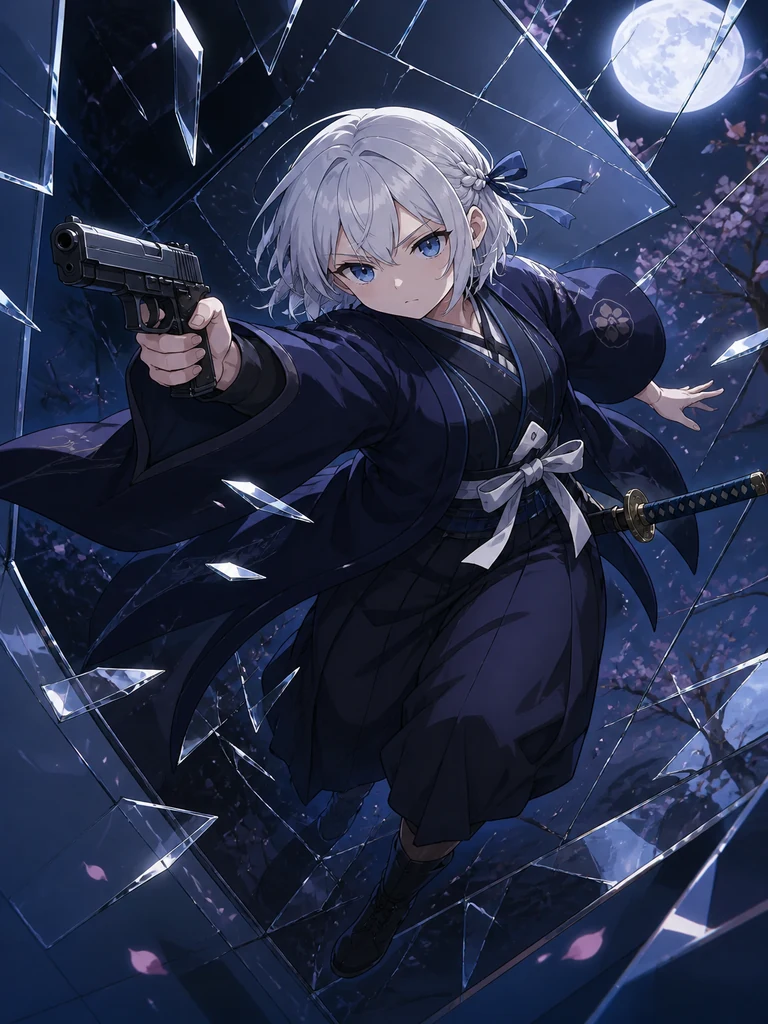
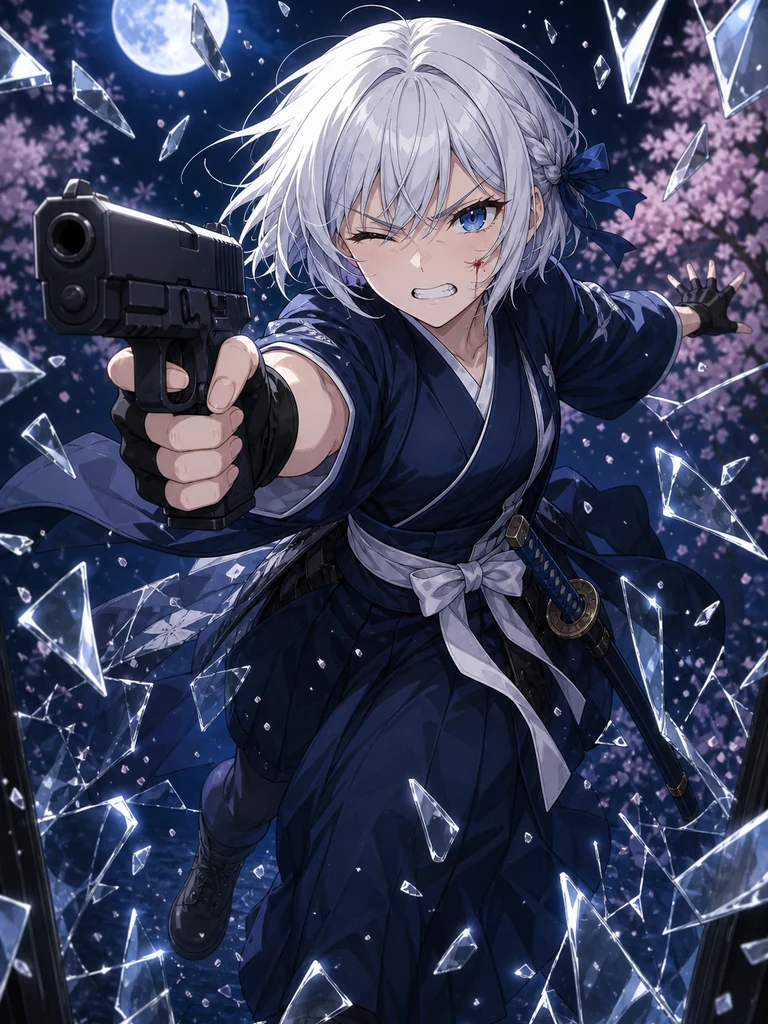
fix: give each job cover a distinct face instead of the same blank glare
Twenty-one cards still shared one closed-mouth combat stare. They are redrawn so each lore beat has its own emotion. Seven already readable faces stay. Aya still does not raise the pistol to her cheek.

diff --git a/docs/PHASE2_FACE_CHECK.md b/docs/PHASE2_FACE_CHECK.md
@@ -8,33 +8,35 @@
 
 绫的枪姿额外禁：`aya_petal` / `school_gun` 那种「手枪竖举到脸边或枪口朝天」。十张都过目视。
 
-| id | 角色 | 发色 | 兵器 | 失败痕迹 | 枪姿 | 自检 |
-|---|---|---|---|---|---|---|
-| job_swarm | 小夜 霓虹风衣 | 紫黑 | 步枪 | 爬无人机堆、蜂巢核裂 | — | 是 |
-| job_railLord | 小夜 霓虹风衣 | 紫黑 | 步枪 | 磁轨弯向镜核 | — | 是 |
-| job_hive | 小夜 绯血礼服 | 紫黑 | 步枪 | 菌从甲缝长出、人躺倒 | — | 是 |
-| job_garden | 小夜 炼金围裙 | 紫黑 | 步枪当锄 | 尸花里长出镜核 | — | 是 |
-| job_starIdol | 小夜 演出服 | 紫黑 | 步枪当麦 | 从塌台坠落 | — | 是 |
-| job_miracle | 小夜 灵能裙 | 紫黑 | 步枪 | 倒栽、冠碎 | — | 是 |
-| job_exorcist | 小夜 祭典巫女 | 紫黑 | 步枪 | 冲石阶、符写失败 | — | 是 |
-| job_guardian | 小夜 祭典巫女 | 紫黑 | 步枪落下 | 从鸟居跳下放走八咫 | — | 是 |
-| job_warSinger | 小夜 演出服 | 紫黑 | 步枪在地 | 尸手后拉仍在唱 | — | 是 |
-| job_healingIdol | 小夜 演出服 | 紫黑 | 步枪背着 | 奔跑、药箱洒花 | — | 是 |
-| job_barrage | 绫 霓虹风衣 | 银白 | 手枪+太刀 | 腰高前伸开火、太刀反斩、弹壳空 | 枪在腰胸前伸，不贴脸 | 是 |
-| job_sniper | 绫 风衣 | 银白 | 手枪+太刀 | 屋顶卧射、弹打空 | 双手据枪前瞄，不贴脸 | 是 |
-| job_plagueDoctor | 绫 炼金围裙 | 银白 | 手枪+太刀 | 瓶炸、面具顶额、刀切绿瓶 | 枪在腰侧，双手不持枪 | 是 |
-| job_philosopher | 绫 炼金围裙 | 银白 | 手枪+太刀 | 半身被石头吞 | 枪丢在地上 | 是 |
-| job_bloodDuke | 绫 葬仪大衣 | 银白 | 手枪+太刀 | 空瓶滑落 | 枪口朝下贴身 | 是 |
-| job_batQueen | 绫 面纱礼装 | 银白 | 手枪+太刀 | 从破王座跳下、冠落 | 侧伸平瞄，不贴脸 | 是 |
-| job_element | 绫 灵能裙 | 银白 | 手枪+太刀 | 举 VOID 券、拔刀、火冰旋涡 | 枪浮在旋涡里，不贴脸 | 是 |
-| job_timeMage | 绫 灵能裙 | 银白 | 手枪+太刀 | 双手够碎表、残影 | 枪留在腰侧残影 | 是 |
-| job_shadow | 绫 夜羽织 | 银白 | 手枪+太刀 | 穿裂镜、刀留在此侧 | 枪朝镜头前伸，不贴脸 | 是 |
-| job_bombNinja | 绫 夜羽织 | 银白 | 手枪+太刀 | 双手刀砍「爆」引线、符飞 | 枪被炸飞离手 | 是 |
-| job_swordSaint | 凛音 夜羽织 | 黑红 | 长刀 | 半空下劈、飞剑已折 | — | 是 |
-| job_thunderLord | 凛音 祭典服 | 黑红 | 长刀 | 雷打弯腰、冠落泥 | — | 是 |
-| job_titan | 凛音 绯血礼服 | 黑红 | 长刀 | 晶臂砸地 | — | 是 |
-| job_berserk | 凛音 绯血礼服 | 黑红 | 长刀 | 横斩冲刺、停不下来 | — | 是 |
-| job_beast | 凛音 召唤袍 | 黑红 | 长刀反向 | 被更高影子拖走 | — | 是 |
-| job_heroic | 凛音 召唤袍 | 黑红 | 长刀掉落 | 契从腕上撕走 | — | 是 |
-| job_boneKing | 凛音 召唤袍 | 黑红 | 长刀当杖 | 把冠按上空颅 | — | 是 |
-| job_soulHerd | 凛音 召唤袍 | 黑红 | 长刀当杖 | 背影牧魂、回头 | — | 是 |
+表情额外禁：全员同一张抿嘴杀气。每张要能报出不同情绪。
+
+| id | 角色 | 发色 | 兵器 | 失败痕迹 | 表情 | 枪姿 | 自检 |
+|---|---|---|---|---|---|---|---|
+| job_swarm | 小夜 霓虹风衣 | 紫黑 | 步枪 | 爬无人机堆、蜂巢核裂 | 召回失败的怔住含泪 | — | 是 |
+| job_railLord | 小夜 霓虹风衣 | 紫黑 | 步枪 | 磁轨弯向镜核 | 轨道跑偏时喊停 | — | 是 |
+| job_hive | 小夜 绯血礼服 | 紫黑 | 步枪 | 菌从甲缝长出、人躺倒 | 被吃空的虚脱 | — | 是 |
+| job_garden | 小夜 炼金围裙 | 紫黑 | 步枪当锄 | 尸花里长出镜核 | 种花笑裂、一滴泪 | — | 是 |
+| job_starIdol | 小夜 演出服 | 紫黑 | 步枪当麦 | 塌台、妆裂 | 假笑撑不住 | — | 是 |
+| job_miracle | 小夜 灵能裙 | 紫黑 | 步枪 | 坠落、冠碎 | 哭着够冠 | — | 是 |
+| job_exorcist | 小夜 祭典巫女 | 紫黑 | 步枪 | 冲石阶、符写失败 | 咬牙怒视 | — | 是 |
+| job_guardian | 小夜 祭典巫女 | 紫黑 | 步枪落下 | 从鸟居跳下放走八咫 | 含泪送走 | — | 是 |
+| job_warSinger | 小夜 演出服 | 紫黑 | 步枪在地 | 尸手后拉仍在唱 | 张嘴唱、倔 | — | 是 |
+| job_healingIdol | 小夜 演出服 | 紫黑 | 步枪背着 | 奔跑、药箱洒花 | 张嘴喊、急 | — | 是 |
+| job_barrage | 绫 霓虹风衣 | 银白 | 手枪+太刀 | 腰高前伸开火、太刀反斩、弹壳空 | 露齿狠笑 | 枪在腰胸前伸，不贴脸 | 是 |
+| job_sniper | 绫 风衣 | 银白 | 手枪+太刀 | 屋顶卧射、弹打空 | 打空后愣住 | 双手据枪前瞄，不贴脸 | 是 |
+| job_plagueDoctor | 绫 炼金围裙 | 银白 | 手枪+太刀 | 瓶炸、面具顶额、刀切绿瓶 | 绿液溅脸皱眉 | 枪不举到脸边 | 是 |
+| job_philosopher | 绫 炼金围裙 | 银白 | 手枪+太刀 | 半身被石头吞 | 哭着够券 | 枪丢在地上 | 是 |
+| job_bloodDuke | 绫 葬仪大衣 | 银白 | 手枪+太刀 | 空瓶滑落 | 疼、眼湿 | 枪口朝下贴身 | 是 |
+| job_batQueen | 绫 面纱礼装 | 银白 | 手枪+太刀 | 从破王座跳下、冠落 | 尖牙冷笑 | 侧伸平瞄，不贴脸 | 是 |
+| job_element | 绫 灵能裙 | 银白 | 手枪+太刀 | 举 VOID 券、拔刀、火冰旋涡 | 反噬眯眼咬牙 | 枪浮在旋涡里，不贴脸 | 是 |
+| job_timeMage | 绫 灵能裙 | 银白 | 手枪+太刀 | 双手够碎表 | 慌到要哭 | 双手空，不举枪 | 是 |
+| job_shadow | 绫 夜羽织 | 银白 | 手枪+太刀 | 穿裂镜、脸划伤 | 玻璃扎脸的龇牙 | 枪朝镜头前伸，不贴脸 | 是 |
+| job_bombNinja | 绫 夜羽织 | 银白 | 手枪+太刀 | 双手刀砍「爆」引线、符飞 | 炸光里的狂笑 | 枪被炸飞离手 | 是 |
+| job_swordSaint | 凛音 夜羽织 | 黑红 | 长刀 | 半空下劈、飞剑已折 | 悲愤喊劈 | — | 是 |
+| job_thunderLord | 凛音 祭典服 | 黑红 | 长刀 | 雷打自身、冠落水 | 被雷打得嘶喊 | — | 是 |
+| job_titan | 凛音 绯血礼服 | 黑红 | 长刀 | 晶臂砸地 | 看见自己手臂的怕 | — | 是 |
+| job_berserk | 凛音 绯血礼服 | 黑红 | 长刀 | 横斩冲刺、停不下来 | 失控怒吼 | — | 是 |
+| job_beast | 凛音 召唤袍 | 黑红 | 长刀反向 | 被更高影子拖走 | 咬牙挣 | — | 是 |
+| job_heroic | 凛音 召唤袍 | 黑红 | 长刀掉落 | 契从腕上撕走 | 睁大眼够契约 | — | 是 |
+| job_boneKing | 凛音 召唤袍 | 黑红 | 长刀当杖 | 把冠按上空颅 | 咬牙按冠 | — | 是 |
+| job_soulHerd | 凛音 召唤袍 | 黑红 | 长刀当杖 | 背影牧魂、回头 | 含泪浅笑 | — | 是 |

diff --git a/docs/SWEEP_LOG.md b/docs/SWEEP_LOG.md
@@ -20,3 +20,4 @@ A/B 每轮追加一行，不准删旧记录。
 | 2026-08-19 | 二期 | 刀3 加成与保底 | resetP 转职 +0.5% 重复不加；upgradeWeight 基础 ×1.3 后再 ×1.5；want=SSR 的 SR 桶优先未拥有 job/shrine/gun/cult，禁止残件。lobby_unit：28 张、仓库转职页、分布、硬保不是残件、2000 抽 ≥10 个 job_*。 | static/lobby/live/ops/framework 绿 | — | 刀4清虫 |
 | 2026-08-19 | 二期 | 刀4 清虫 | 门 A 脚本绿。browser_smoke 核心寻访/仓库/三角色/升级/Boss/结算绿；末尾孤证试炼点 #skill 超时与刀 0 基线相同，本轮未改战斗。无新 P0/P1。未升 4.6.1。 | 门A绿 | 基线已有 #skill 不可见 | 停，等人收工 |
 | 2026-08-19 | 二期 | 绫枪姿复检 | 十张绫封面过目视。禁 `aya_petal` 竖举脸边/朝天。整张重画 plagueDoctor / element / bombNinja；barrage / timeMage 一并换构图。sniper / philosopher / bloodDuke / batQueen / shadow 可留。未动旧 8/14/传说/公共图。 | 目视 10/10 枪不贴脸 | 首轮抄默认举枪 | 停，等人收工 |
+| 2026-08-19 | 二期 | 表情复检 | 28 张过目视。禁全员抿嘴杀气。可留 hive / warSinger / healingIdol / bloodDuke / beast / heroic / boneKing。其余 21 张整张重画，情绪按 lore 拆开。绫仍禁举枪贴脸。未动旧 8/14/传说/公共图。 | 目视 28/28 能报出不同情绪 | 上轮只修枪姿没拆表情 | 停，等人收工 |
